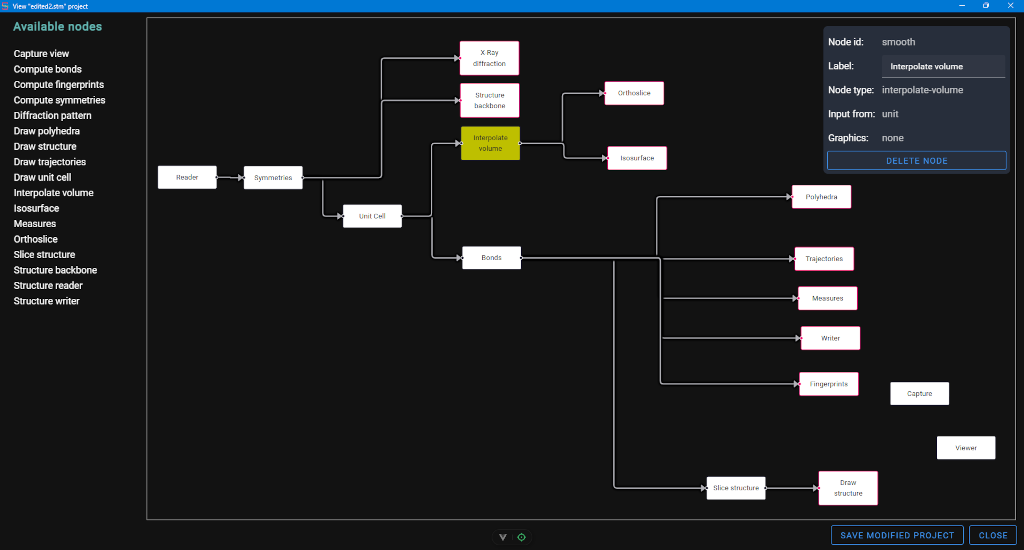
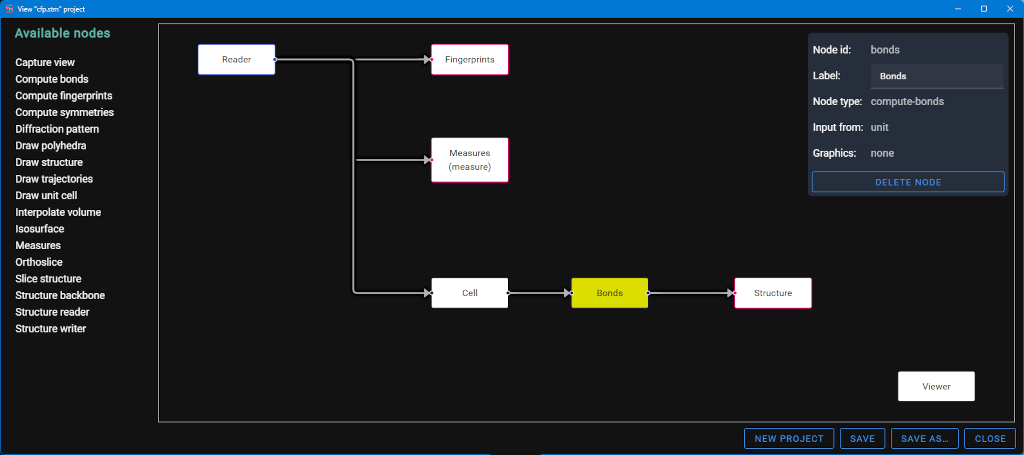
Added save and save as to the project editor.

diff --git a/public/doc/secondary/project-editor.html b/public/doc/secondary/project-editor.html
@@ -13,22 +13,25 @@
   <meta name="viewport" content="width=device-width, initial-scale=1.0, user-scalable=yes" />
 
   <title>STMng — Program editor</title>
-
+<style>
+.move {transform:translateY(4px)}
+</style>
 </head><body>
 <h1>STMng — Program editor documentation</h1>
 
 <p>The loaded project structure could be seen and changed using the <b>File → Project editor</b> menu entry.
-This entry opens the <b>Project editor</b> in its own window depicted below.</p>
-<p><img src="project-editor.png" alt="Project editor" width="1024" height="550"/></p>
+This entry opens the <b>Project editor</b> in its own window as depicted below.</p>
+<p><img src="project-editor.png" alt="Project editor" width="1024" height="455"/></p>
 <p>The window title contains the filename of the currently loaded project or the “default project” mark.</p>
 <p>The leftmost column, labelled “Available nodes”, list all the nodes types provided by the application.</p>
 <p>Nodes from this column could be dragged to the graph chart on the right to create a new node in the project. In the name an unique string in parenthesis marks these created nodes.</p>
 <p>Clicking a node in the graph chart marks it as selected with a <span style="background-color: yellow;padding: 0 10px">yellow</span> background. Clicking on the chart background deselects it. When a node is selected, its data is visualized in a panel shown at the top right of the chart. The label of the node could be edited in this panel. With a button on the panel, the node could be deleted after asking for confirmation.</p>
 <p>The nodes’ positions could be changed by dragging the nodes around. To move a group of nodes use shift-drag to draw a rectangular selection, then drag them. Using ctrl-click multiple nodes could be selected. For multi node selections the panel show info only for the last node selected.</p>
-<p>The connection between nodes is done clicking on the output port (the rightmost one) and, when the cursor becomes a cross <img src=crosshair.png width="20" height="20">, dragging it to a free input port (the left one). If a connection is redone, it is deleted.</p>
-<p>Going to one end of the connection the cursor changes to <img src="move.png" width="20" height="20"> then this end can be drag to another connection point.</p>
+<p>The connection between nodes is done clicking on the output port (the rightmost one) and, when the cursor becomes a cross <img src=crosshair.png width="20" height="20" class="move">, dragging it to a free input port (the left one). If a connection is redone, it is deleted.</p>
+<p>Going to one end of the connection the cursor changes to
+  <img src="move.png" width="20" height="20" class="move"> then this end can be drag to another connection point.</p>
 <p>The graph could be zoomed using the mouse wheel.</p>
-<p>At the end, “Save modified project” asks for a project filename (<tt>.stm</tt>), save here the modified project and load it in the application. A confirmation dialog appears if the project has modifications. Closing the window with the “Discard” button loses the changes. If there are errors (unconnected ports) the project cannot be saved.</p>
+<p>At the end, Pushing “Save as…” button asks for a project filename (with extension <tt>.stm</tt>), save here the modified project and load it in the application. Instead, the “Save” button, active if the current project is not the default one, save the currently loaded project. A confirmation dialog appears if the project has modifications. Closing the window with the “Discard” button loses the changes. If there are errors (unconnected ports) the project cannot be saved.</p>
 <p>Note that the order of entries in the project file, and thus in the Node selector, is determined by the left-to-right and then top-to-bottom order of the nodes in the editor.</p>
 <p>The “New project” button empties the graph leaving only the “Viewer” node to build a new graph. This button is enabled only when there are no pending changes to be saved in the graph.</p>
 

diff --git a/src/components/ProjectEditor.vue b/src/components/ProjectEditor.vue
@@ -93,6 +93,9 @@ interface AvailableNode {
 /** List of available nodes */
 const availableNodes = ref<AvailableNode[]>([]);
 
+/** Path to the current loaded project file or empty for default project */
+const currentProjectPath = ref("");
+
 /**
  * Format graph data for the editor
  *
@@ -169,8 +172,11 @@ const prepareGraphFlow = (projectInfo: ProjectInfo): void => {
 /** Receive the data and build the graph data and available nodes list */
 receiveInWindow((data) => {
 
+    if(!data) return;
+
     const info = JSON.parse(data) as ProjectInfo;
 
+    currentProjectPath.value = info.projectPath;
     prepareGraphFlow(info);
     prepareAvailableNodes(info);
 });
@@ -393,8 +399,10 @@ const notificationQueue = ref<string[]>([]);
 
 /**
  * Save the modified project
+ *
+ * @param saveAs - True if the project filename should be asked
  */
-const saveProjectGraph = (): void => {
+const saveProjectGraph = (saveAs: boolean): void => {
 
     for(const node of graphFlow.value) {
         for(const availableNode of availableNodes.value) {
@@ -442,7 +450,8 @@ const saveProjectGraph = (): void => {
     }
 
     askNode("SYSTEM", "modified-project", {
-        projectModified: JSON.stringify(graph)
+        projectModified: JSON.stringify(graph),
+        projectPath: saveAs ? "" : currentProjectPath.value
     })
     .then((result) => {
         if(result.saved) {
@@ -682,7 +691,7 @@ const exitAndSave = (): void => {
 
     showConfirmExit.value = false;
     window.removeEventListener("beforeunload", beforeClose);
-    saveProjectGraph();
+    saveProjectGraph(true);
     closeWindow("/project-editor");
 };
 
@@ -759,7 +768,9 @@ const confirmNewProject = (): void => {
     </div>
     <div class="bb button-strip pr-7">
       <v-btn @click="confirmNewProject">New project</v-btn>
-      <v-btn :disabled="!projectModified" @click="saveProjectGraph">Save modified project</v-btn>
+      <v-btn :disabled="!projectModified || currentProjectPath===''"
+             @click="saveProjectGraph(false)">Save</v-btn>
+      <v-btn :disabled="!projectModified" @click="saveProjectGraph(true)">Save as…</v-btn>
       <v-btn v-focus @click="tryToExit">Close</v-btn>
     </div>
   </div>

diff --git a/src/electron/modules/ProjectManager.ts b/src/electron/modules/ProjectManager.ts
@@ -282,8 +282,14 @@ class ProjectManager {
 		}
 		catch(error) {
 			sendAlertToClient(`Cannot parse project. Error: ${(error as Error).message}`);
+			return "";
 		}
-		return JSON.stringify({graph: projectInfo, allNodes: this.allNodes});
+
+		return JSON.stringify({
+			graph: projectInfo,
+			allNodes: this.allNodes,
+			projectPath: getProjectPath()
+		});
 	}
 
 	/**
@@ -487,7 +493,9 @@ export const setupChannelProject = (): void => {
 		const prj = params.projectModified as string;
 		if(!prj) return {saved: false};
 
-		const file = dialog.showSaveDialogSync({
+		const currentFilename = params.projectPath as string;
+
+		const file = currentFilename || dialog.showSaveDialogSync({
 			title: "Save modified project",
 			filters: [
 				{name: "STMng project", extensions: ["stm"]},

diff --git a/src/types/NodeInfo.ts b/src/types/NodeInfo.ts
@@ -83,4 +83,7 @@ export interface ProjectInfo {
 
 	/** All available nodes info */
 	allNodes: OneNodeInfo[];
+
+	/** Currently loaded project file path or empty string if default project */
+	projectPath: string;
 }
